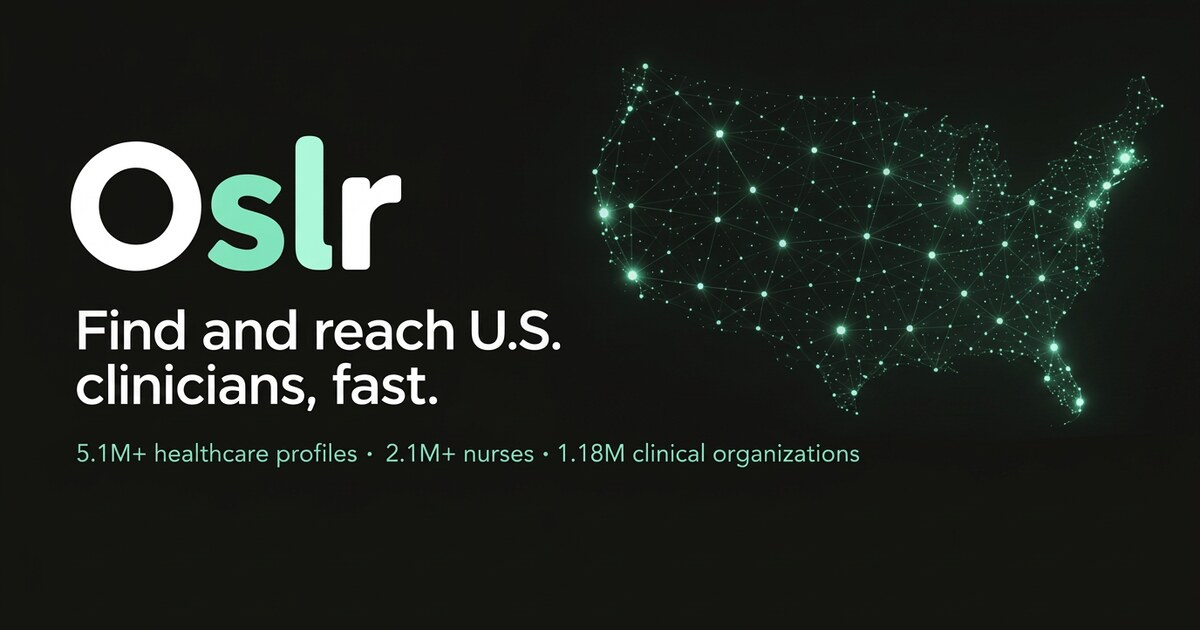
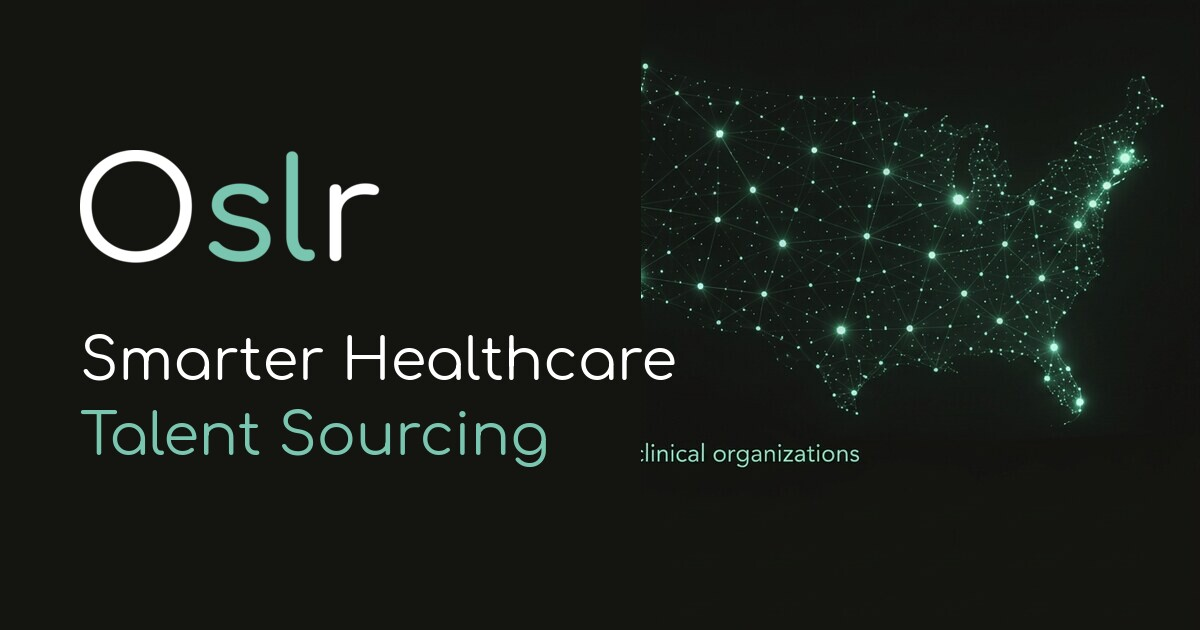
Changes

diff --git a/index.html b/index.html
@@ -3,7 +3,7 @@
   <head>
     <meta charset="UTF-8" />
     <meta name="viewport" content="width=device-width, initial-scale=1.0" />
-    <title>Oslr — Find and reach U.S. clinicians, fast</title>
+    <title>Oslr — Smarter Healthcare Talent Sourcing</title>
     <meta name="description" content="Search 5.1M+ U.S. healthcare profiles, including 2.1M+ nurses and 1.18M clinical organizations. Save clinicians to projects and get their contact details in one place.">
     <meta name="author" content="Oslr" />
     <meta name="theme-color" content="#121212" />
@@ -13,18 +13,18 @@
     <link rel="icon" type="image/svg+xml" href="/favicon.svg">
     <meta property="og:type" content="website" />
     <meta property="og:site_name" content="Oslr" />
-    <meta property="og:title" content="Oslr — Find and reach U.S. clinicians, fast">
+    <meta property="og:title" content="Oslr — Smarter Healthcare Talent Sourcing">
     <meta property="og:description" content="5.1M+ U.S. healthcare profiles, 2.1M+ nurses and 1.18M clinical organizations — search, save and contact clinicians in one place.">
-    <meta property="og:image" content="https://oslr.health/og-image.jpg?v=3" />
+    <meta property="og:image" content="https://oslr.health/og-image.jpg?v=4" />
     <meta property="og:image:width" content="1200" />
     <meta property="og:image:height" content="630" />
-    <meta property="og:image:alt" content="Oslr — Find and reach U.S. clinicians, fast" />
+    <meta property="og:image:alt" content="Oslr — Smarter Healthcare Talent Sourcing" />
 
     <meta name="twitter:card" content="summary_large_image" />
     <meta name="twitter:site" content="@Oslr" />
-    <meta name="twitter:title" content="Oslr — Find and reach U.S. clinicians, fast">
+    <meta name="twitter:title" content="Oslr — Smarter Healthcare Talent Sourcing">
     <meta name="twitter:description" content="5.1M+ U.S. healthcare profiles, 2.1M+ nurses and 1.18M clinical organizations — search, save and contact clinicians in one place.">
-    <meta name="twitter:image" content="https://oslr.health/og-image.jpg?v=3" />
+    <meta name="twitter:image" content="https://oslr.health/og-image.jpg?v=4" />
   </head>
 
   <body>
